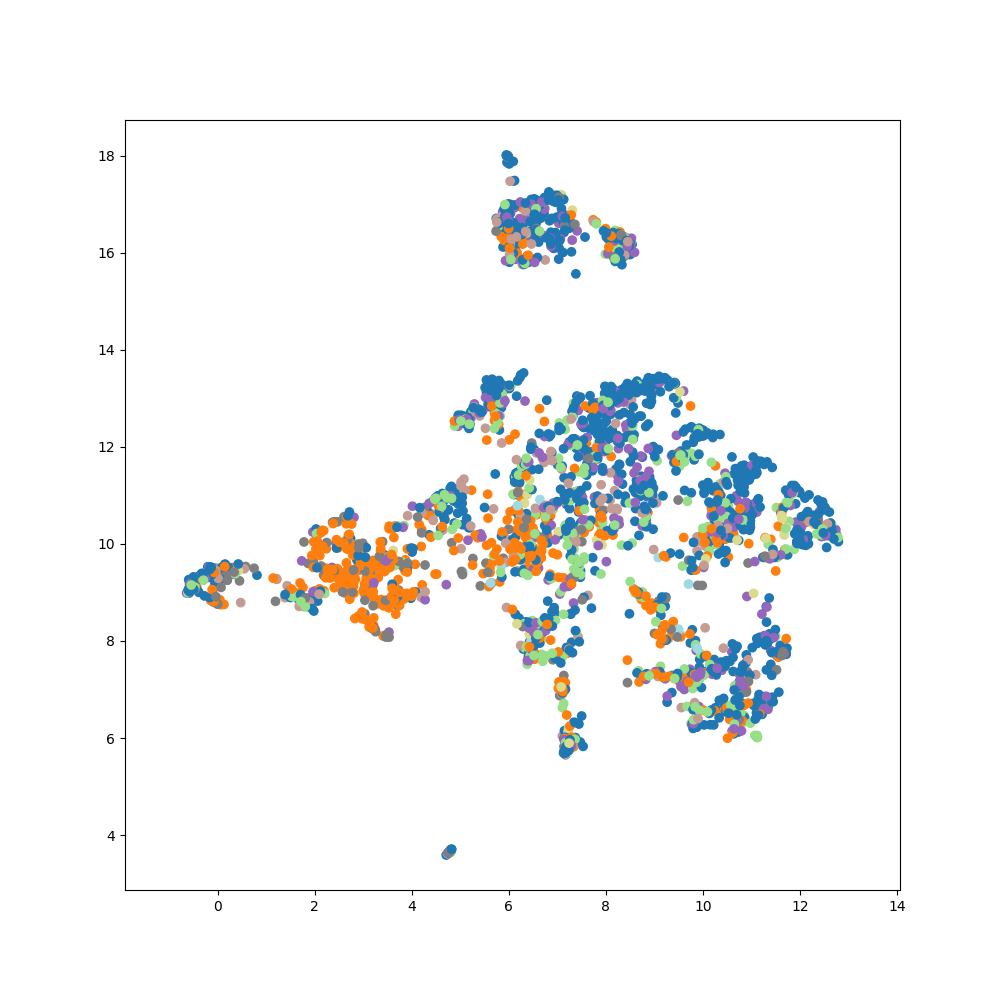
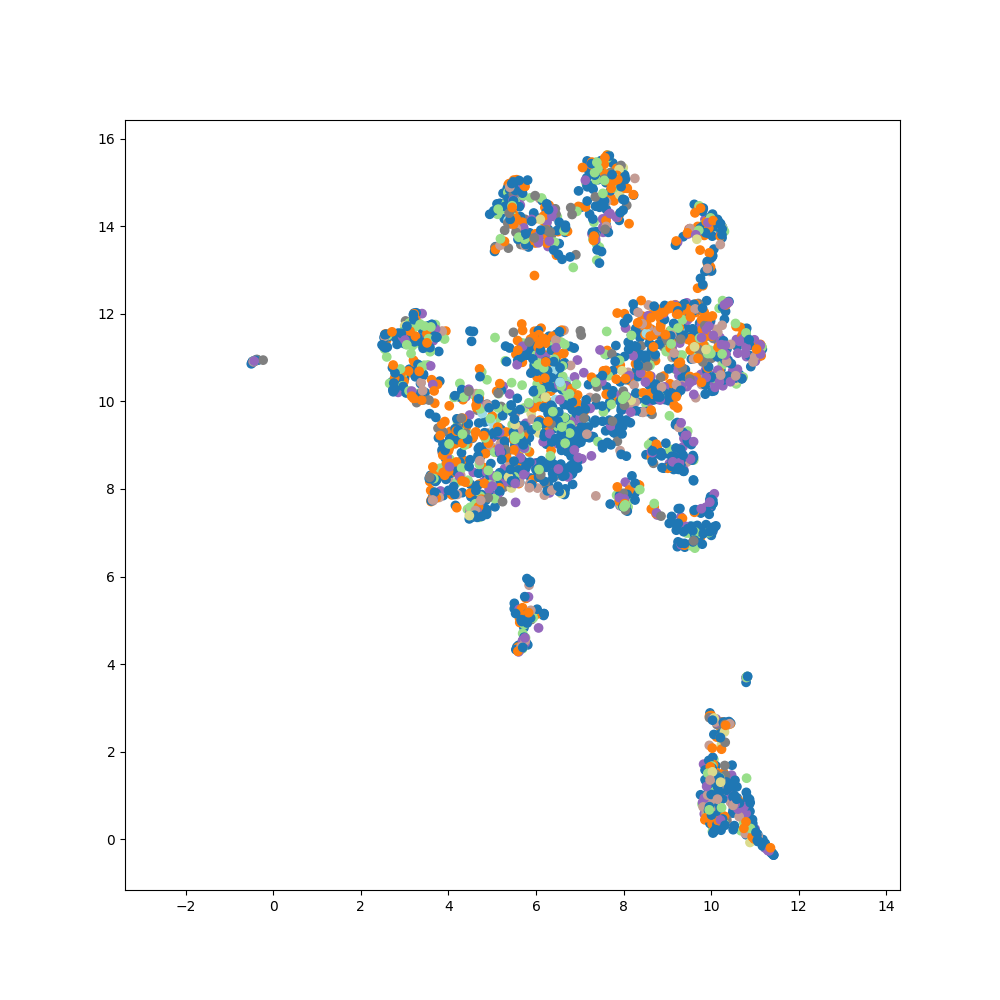
feat: Improve SIMS pretraining loss function
The SIMS pretraining loss function has been updated to improve stability and performance. The new loss function, `UnsupervisedLossSimsational`, incorporates additional features such as adding epsilon to stabilize batch standard deviations and scaling the loss by the number of features. This change aims to address the issue of the loss not decreasing during training.

diff --git a/simsational/pretraining.py b/simsational/pretraining.py
@@ -1,6 +1,8 @@
 from pytorch_tabnet.tab_network import TabNetPretraining
 from pytorch_tabnet.utils import create_group_matrix, create_explain_matrix
-from pytorch_tabnet.metrics import UnsupervisedLoss
+
+#from pytorch_tabnet.metrics import UnsupervisedLoss . I am substituting this with my own loss function
+
 import pytorch_lightning as pl
 import torch
 from typing import Callable, List, Union
@@ -14,11 +16,57 @@ import numpy as np
 from tqdm import tqdm
 
 
+def UnsupervisedLossSimsational(y_pred, embedded_x, obf_vars, eps=1e-9)#,min_std=1e-4):
+    """
+    Implements unsupervised loss function.
+    This differs from orginal paper as it's scaled to be batch size independent
+    and number of features reconstructed independent (by taking the mean)
+
+    Parameters
+    ----------
+    y_pred : torch.Tensor or np.array
+        Reconstructed prediction (with embeddings)
+    embedded_x : torch.Tensor
+        Original input embedded by network
+    obf_vars : torch.Tensor
+        Binary mask for obfuscated variables.
+        1 means the variable was obfuscated so reconstruction is based on this.
+    eps : float
+        A small floating point to avoid ZeroDivisionError
+        This can happen in degenerated case when a feature has only one value
+
+    Returns
+    -------
+    loss : torch float
+        Unsupervised loss, average value over batch samples.
+    """
+    errors = y_pred - embedded_x
+    print("I am using the SIMSational loss function")
+    reconstruction_errors = torch.mul(errors, obf_vars) ** 2
+    batch_means = torch.mean(embedded_x, dim=0)
+    # avoid division by zero / Julian doesn't think this works.
+    batch_means[batch_means == 0] = 1
+    #batch_stds = torch.std(embedded_x, dim=0) ** 2 #Original
+    batch_stds = torch.std(embedded_x, dim=0) ** 2 + eps #Adding eps to batch_stds could help stabilize it
+    batch_stds[batch_stds == 0] = batch_means[batch_stds == 0]
+    # Replace both zeros and very small values with threshold
+    #batch_stds = torch.clamp(batch_stds, min=min_std)
+    #features_loss = torch.matmul(reconstruction_errors, 1 / batch_stds) #Loss per sample: Original
+    features_loss = torch.matmul(reconstruction_errors, 1 / batch_stds) / embedded_x.shape[1] #Loss per sample, scaled by number of features
+    # compute the number of obfuscated variables to reconstruct
+    nb_reconstructed_variables = torch.sum(obf_vars, dim=1)
+    
+    # take the mean of the reconstructed variable errors
+    features_loss = features_loss / (nb_reconstructed_variables + eps)
+    # here we take the mean per batch, contrary to the paper
+    loss = torch.mean(features_loss) #Mean accross samples
+    return loss
+
 class SIMSPretraining(pl.LightningModule):
     def __init__(self,
         #All of these come straight from the pretrainer class
         input_dim,
-        pretraining_ratio=0.2,
+        pretraining_ratio=0.8,
         n_d=8,
         n_a=8,
         n_steps=3,
@@ -44,7 +92,7 @@ class SIMSPretraining(pl.LightningModule):
         #But for our first implementation we will not use this. Default to None for now
         grouped_features: List[List[int]] = [],
 
-        loss: Callable = None, #Defaults to UnsupervisedLoss
+        loss: Callable = None, #Defaults to UnsupervisedLossSimsational
         optim_params=None, #Defaults to AdamW 
         scheduler_params=None, #Defaults to ReduceLROnPlateau
         ):
@@ -58,9 +106,9 @@ class SIMSPretraining(pl.LightningModule):
 
         #Add loss
         self.loss = loss
-        #Defaults to UnsupervisedLoss
+        #Defaults to UnsupervisedLossSimsational
         if loss is None:
-            self.loss = UnsupervisedLoss
+            self.loss = UnsupervisedLossSimsational
         
         #Add metrics/ Log embeddings and then have a function to calculate the ARI
         self.metrics = {
@@ -73,8 +121,8 @@ class SIMSPretraining(pl.LightningModule):
             if optim_params is not None
             else {
                 "optimizer": torch.optim.AdamW,
-                "lr": 0.001,
-                "weight_decay": 0.01,
+                "lr": 0.0001,
+                "weight_decay": 0.001,
             }
         )
         #Add scheduler params

diff --git a/simsational/test.py b/simsational/test.py
@@ -5,6 +5,10 @@ from pytorch_lightning.loggers import WandbLogger
 import umap
 import numpy as np
 import matplotlib.pyplot as plt
+from numba.core.errors import NumbaDeprecationWarning
+import warnings
+warnings.filterwarnings("ignore", category=NumbaDeprecationWarning)
+
 
 def test_simsational_pretraining():
     adata = sc.datasets.pbmc3k_processed()
@@ -15,24 +19,21 @@ def test_simsational_pretraining():
     print(adata.var)
     adata.obs['cell_type'] = adata.obs['louvain'].astype(str)
     print("Setting up the pretraining model")
-    model = SIMSPretrainedAPI(data=adata, class_label='cell_type', batch_size=8)
-    logger = WandbLogger(name="simsational_pretraining",project="simsational")
-    model.setup_trainer(accelerator="cpu", devices=1,limit_train_batches=1,limit_val_batches=1,max_epochs=10,
+    model = SIMSPretrainedAPI(data=adata, class_label='cell_type', batch_size=16,pretraining_ratio=0.85)
+    logger = WandbLogger(name="simsational_pretraining_add_eps_to_batchstd_and_feature_scaled_and_min_std",project="simsational")
+    model.setup_trainer(accelerator="cpu", devices=1,limit_train_batches=1,limit_val_batches=1,max_epochs=200,
                         logger=logger)
     print("training model")
     model.train()
     print("model trained")
     #Now model predict to get embeddings
-    
     embeddings = model.get_embeddings(adata)
-    print("Embeddings")
-    print(embeddings)
-    print(embeddings.shape)
-    print("UMAP")
+    #print(embeddings)
+    print("Embeddings",embeddings.shape)
     embeddings = embeddings.detach().numpy()
     umap_embeddings = umap.UMAP().fit_transform(embeddings)
-    print(umap_embeddings)
-    print(umap_embeddings.shape)
+    #print(umap_embeddings)
+    print("Umap shape",umap_embeddings.shape)
     #Now plot the UMAP
     adata.obs['cell_type'] = adata.obs['cell_type'].astype('category')
     plt.figure(figsize=(10,10))
